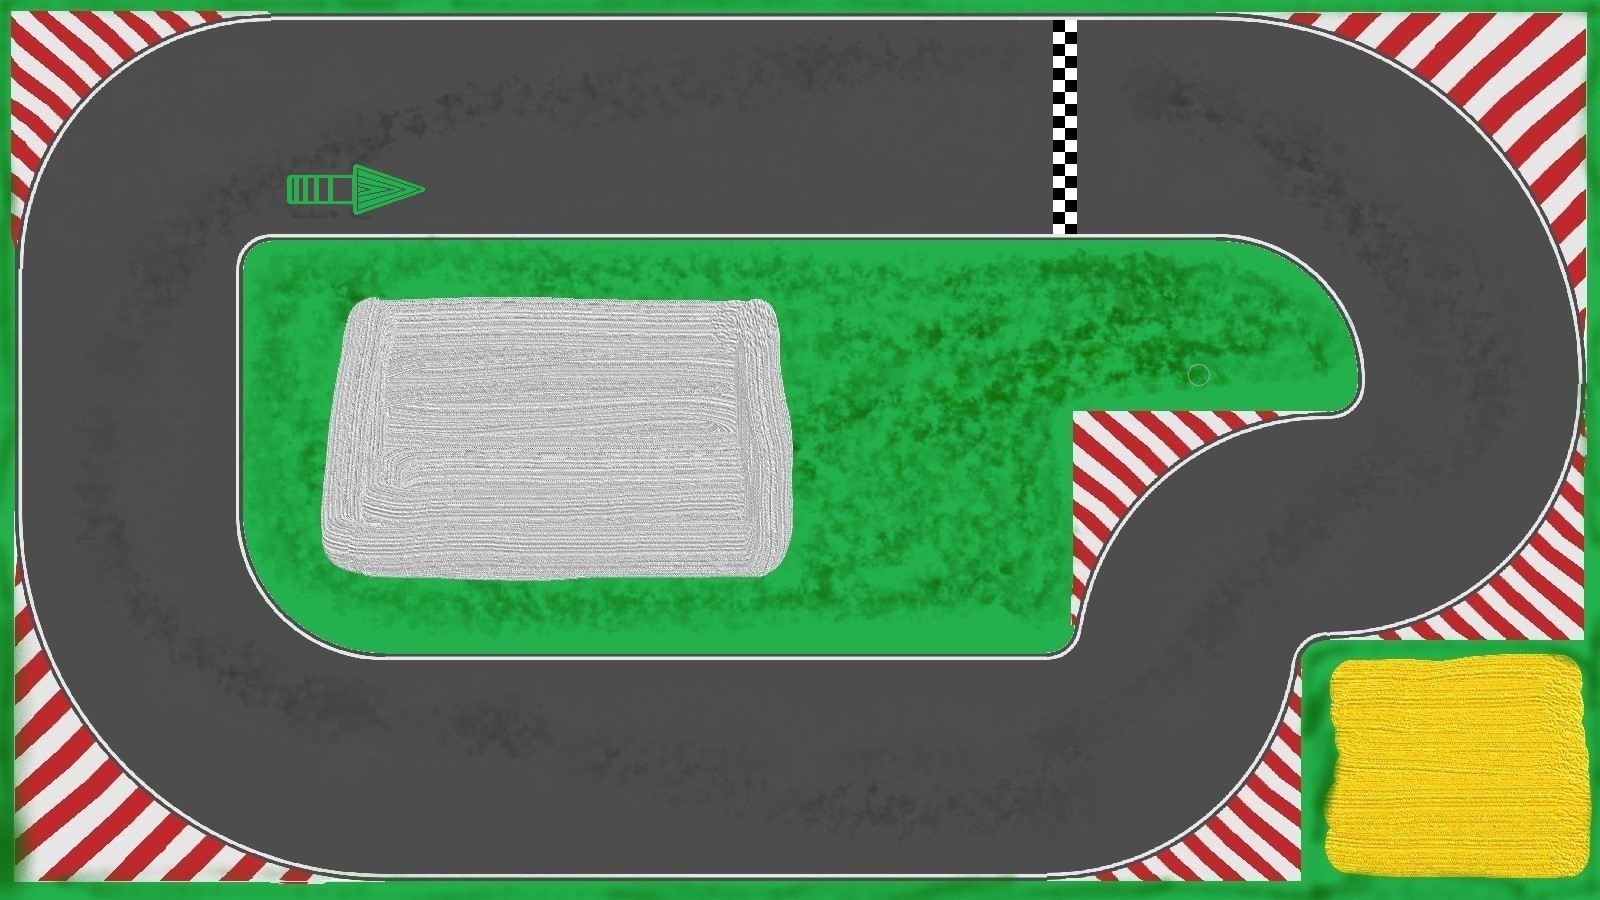
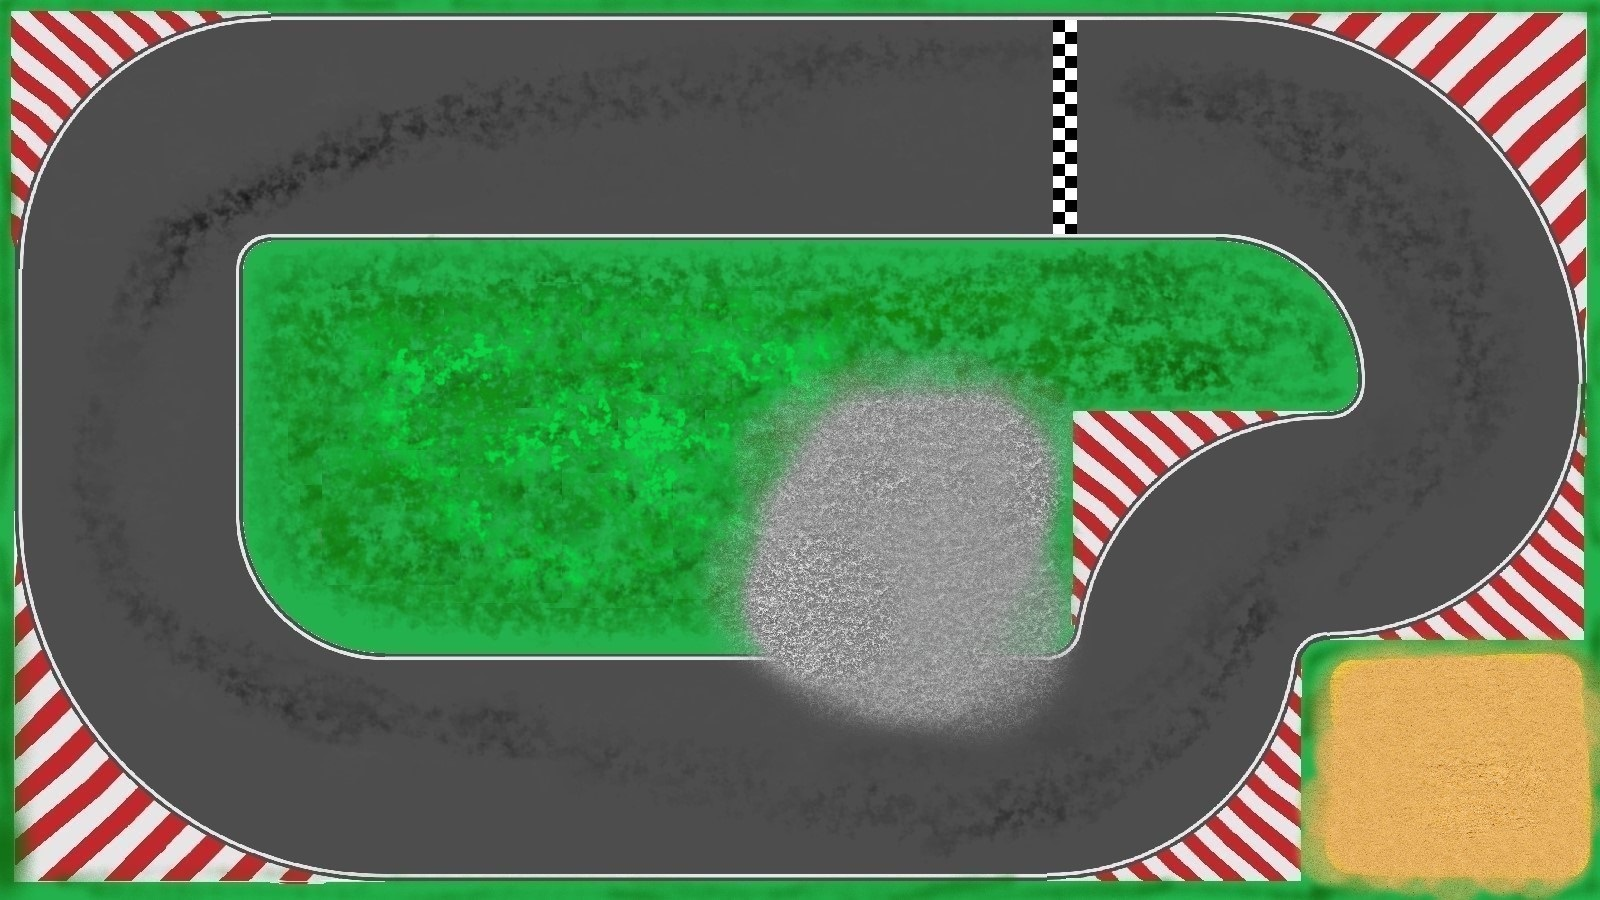
Added new track, made lap manager

diff --git a/car.py b/car.py
@@ -70,11 +70,16 @@ class Car:
             * Key not relavent to the car: Nothing happens
             * Two keys pressed: Both get processed
         """
+        # (Re-)Set MaxFrontSpeed into currentFrontSpeed for this run of the process input
+        # If the car goes over Hitboxes, this currentFrontSpeed will be set lower or higher 
+        self.currentFrontSpeed = self.MAXFRONTSPEED
 
         if aPressedKey[pygame.K_UP] or aPressedKey[pygame.K_w] or aPressedKey[pygame.K_c]:
             self.accelerate()
         elif aPressedKey[pygame.K_DOWN] or aPressedKey[pygame.K_s] or aPressedKey[pygame.K_x]:
             self.decelerate()
+        
+        self.calculateHitboxes()
         self.friction()
 
         theDeceleration = 0
@@ -100,7 +105,7 @@ class Car:
         if aPressedKey[pygame.K_r]:
             self.position = (200,200)
         
-        self.calculateHitboxes()
+        
 
         # Move the car
         self.update(aDelta)
@@ -139,11 +144,13 @@ class Car:
             * Car is getting slowed down over time when not accelerating/decelerating
         """
         deceleration = 3
-        if(self.speed > self.MAXFRONTSPEED * 1.5): deceleration = 15
+        if(self.speed > self.currentFrontSpeed * 1.5): deceleration = 25
+        if(self.speed > self.currentFrontSpeed * 1.75): deceleration = 50
+        if(self.speed > self.currentFrontSpeed * 2): deceleration = 100
         
         if self.speed > 0: self.speed -= deceleration
         else: self.speed += deceleration
-        if abs(self.speed < 5): self.speed = 0
+        if abs(self.speed) < 5: self.speed = 0
 
     def steerRight(self):
         """Steers the car right with a set turningangle every updatetick.
@@ -196,14 +203,16 @@ class Car:
         Tests:
             * The Wheelbase of the car can not be smaller/bigger then the defined MINWHEELBASE/MAXWHEELBASE of the car
             * The calculation is correct
-        """
-
+        """       
         self.wheelBase = abs(self.speed)/2
+        
         if(self.wheelBase < self.MINWHEELBASE):
             self.wheelBase = self.MINWHEELBASE
         if(self.wheelBase > self.MAXWHEELBASE):
             self.wheelBase = self.MAXWHEELBASE
-        
+
+    
+
     def drawSkidMarks(self, aScreen):  
         """ Draws the skidmarks of the car.
         TODO: Skidmarks are to be reworked: 
@@ -222,6 +231,16 @@ class Car:
 
         if(len(self.skidMarkList) > self.MAXSKIDMARKS):
             del self.skidMarkList[:2]
+    
+    def calculateHitboxes(self):
+    
+        for hitbox in self.hitboxList:            
+            if hitbox.checkIfPointIsInside(self.position):
+                if hitbox.slowdownFlag:
+                    self.currentFrontSpeed = hitbox.maxSpeed
+                else:
+                   self.speed += hitbox.maxSpeed
+              
 
     def calcWheelPositions(self, dt):
         """Calucates the wheelPosition of the Car. 
@@ -239,14 +258,25 @@ class Car:
             * Are the wheels correctly positioned?
             * Does the car not exceed the max speed?
         """
-        self.turningWheel = self.position - self.wheelBase/2 * Vector2( cos(self.direction) , sin(self.direction))
-        self.frontWheel = self.position + self.wheelBase/2 * Vector2( cos(self.direction) , sin(self.direction))  
 
-        self.frontWheel += self.speed * dt * Vector2(cos(self.direction) , sin(self.direction))
-        self.turningWheel += self.speed * dt * Vector2(cos(self.direction+self.steerAngle) , sin(self.direction+self.steerAngle))
+        if(self.speed > 0):
+            self.turningWheel = self.position - self.wheelBase/2 * Vector2( cos(self.direction) , sin(self.direction))
+            self.frontWheel = self.position + self.wheelBase/2 * Vector2( cos(self.direction) , sin(self.direction))  
 
-        self.position = (self.turningWheel + self.frontWheel) / 2
-        self.direction = atan2( self.frontWheel.y - self.turningWheel.y , self.frontWheel.x - self.turningWheel.x )
+            self.frontWheel += self.speed * dt * Vector2(cos(self.direction) , sin(self.direction))
+            self.turningWheel += self.speed * dt * Vector2(cos(self.direction+self.steerAngle) , sin(self.direction+self.steerAngle))
+
+            self.position = (self.turningWheel + self.frontWheel) / 2
+            self.direction = atan2( self.frontWheel.y - self.turningWheel.y , self.frontWheel.x - self.turningWheel.x )
+        else: 
+            self.turningWheel = self.position - self.wheelBase/2 * Vector2( cos(self.direction) , sin(self.direction))
+            self.frontWheel = self.position + self.wheelBase/2 * Vector2( cos(self.direction) , sin(self.direction))  
+
+            self.turningWheel += self.speed * dt * Vector2(cos(self.direction) , sin(self.direction))
+            self.frontWheel += self.speed * dt * Vector2(cos(self.direction+self.steerAngle) , sin(self.direction+self.steerAngle))
+
+            self.position = (self.turningWheel + self.frontWheel) / 2
+            self.direction = atan2( self.frontWheel.y - self.turningWheel.y , self.frontWheel.x - self.turningWheel.x )
 
     def update(self, dt):
         """ Updates the cars physics and position
@@ -280,7 +310,6 @@ class Car:
             * Is the circle overflow correctly calculated?
 
         """
-
         theOffsetAngle = degrees(self.direction) + 90 
         if degrees(self.direction) > 90:
             theOffsetAngle -= 360
@@ -299,7 +328,7 @@ class Car:
             * Are the Skidmarks drawn on the correct layer? (Under the car, over the bg?)
         """
         self.updateSkidmarkOffsetVector()
-        if abs(self.steerAngle) > 0.8:
+        if abs(self.steerAngle) > 0.8 and self.speed > 0:
 
             self.skidMarkList.append(SkidMark((self.displayPos1.x + self.skidmarkOffsetVector.x, self.displayPos1.y + self.skidmarkOffsetVector.y),degrees(-self.direction), self.steerAngle, self.speed))
             self.skidMarkList.append(SkidMark((self.displayPos1.x - self.skidmarkOffsetVector.x, self.displayPos1.y - self.skidmarkOffsetVector.y),degrees(-self.direction), self.steerAngle, self.speed))
@@ -307,7 +336,7 @@ class Car:
             self.skidMarkList.append(SkidMark((self.displayPos1.x + self.skidmarkOffsetVector.x, self.displayPos1.y + self.skidmarkOffsetVector.y),degrees(-self.direction), 2, self.speed))
             self.skidMarkList.append(SkidMark((self.displayPos1.x - self.skidmarkOffsetVector.x, self.displayPos1.y - self.skidmarkOffsetVector.y),degrees(-self.direction), 2, self.speed))
              
-    def calculateHitboxes(self):
-        print("")
-        #for eachHitbox in self.hitboxList
-        #    if eachHitbox.
+                  
+
+
+

diff --git a/trackdata.py b/trackdata.py
@@ -20,17 +20,72 @@ class Trackdata:
     def __init__(self):
         """Inits trackdata and creates all the hitboxes for the tracks
         """
-        self.track01 = []
+        self.track01_hitboxes = []
+        self.track01_checkpoints = []
 
-        self.track01.__add__(Hitbox())
+        ### Track 01
+        # Outside, on screen hitbox
+        self.track01_hitboxes.append(Hitbox((0,0),       (1600,15),      50))
+        self.track01_hitboxes.append(Hitbox((0,0),       (15,900),       50))
+        self.track01_hitboxes.append(Hitbox((0,880),     (1600,900),     50))
+        self.track01_hitboxes.append(Hitbox((1580,0),    (1600,900),     50))
 
+        # Grass
+        self.track01_hitboxes.append(Hitbox((256,256),   (1060,560),     150))
+        self.track01_hitboxes.append(Hitbox((1060,256),  (1250,400),     150))
+        self.track01_hitboxes.append(Hitbox((320,560),   (1060,640),     150))
 
+        # Graveltraps
+        self.track01_hitboxes.append(Hitbox((780,400),   (1050,720),      100))
+        self.track01_hitboxes.append(Hitbox((1330,650),  (1590,880),     100))
 
+        ## Checkpoints
+        # right
+        self.track01_checkpoints.append(Hitbox((1350, 360),   (1580,380),      0,    False,       True))
+        # bottom
+        self.track01_checkpoints.append(Hitbox((720, 650),   (740,880),      0,    False,       True))
+        # left
+        self.track01_checkpoints.append(Hitbox((15, 370),   (240,390),      0,    False,       True))
+        # start/finish
+        self.track01_checkpoints.append(Hitbox((1053, 20),   (1077,234),      0,    False,       True))
 
+        ### Track 2
+        self.track02_hitboxes = []
+        self.track02_checkpoints = []
 
+        # Checkpoints
+        
+        # split top 
+        self.track02_checkpoints.append(Hitbox((1305, 229),   (1325,367),      0,    False,       True))
+        # top middle right
+        self.track02_checkpoints.append(Hitbox((1292, 15),   (1312,165),      0,    False,       True))
+        # before 1st cross
+        self.track02_checkpoints.append(Hitbox((987, 280),   (1140,300),      0,    False,       True))
+        # after 1st cross
+        self.track02_checkpoints.append(Hitbox((987, 545),   (1140,565),      0,    False,       True))
+        # before 2nd cross
+        self.track02_checkpoints.append(Hitbox((468, 490),   (620,470),      0,    False,       True))
+        # after 2nd cross
+        self.track02_checkpoints.append(Hitbox((468, 226),   (620,206),      0,    False,       True))
+        # top left
+        self.track02_checkpoints.append(Hitbox((195, 34),   (215,193),      0,    False,       True))
+        # before merge
+        self.track02_checkpoints.append(Hitbox((300, 228),   (320,376),      0,    False,       True))
+        # start/finish, passby
+        self.track02_checkpoints.append(Hitbox((934, 313),   (957,457),      0,    False,       True))
 
+        # split bottom 
+        self.track02_checkpoints.append(Hitbox((1306, 390),   (1326,532),      0,    False,       True))
+        # after right turn
+        self.track02_checkpoints.append(Hitbox((1290, 717),   (1310,880),      0,    False,       True))
+        # after straight
+        self.track02_checkpoints.append(Hitbox((320, 717),   (340,880),      0,    False,       True))
+        # before merge
+        self.track02_checkpoints.append(Hitbox((296, 392),   (316,541),      0,    False,       True))
 
-        self.track02 = []
+        # start/finish, actually now
+        self.track02_checkpoints.append(Hitbox((934, 313),   (957,457),      0,    False,       True))
+        
         
 
     

diff --git a/game.py b/game.py
@@ -19,6 +19,8 @@ pygame.font.init()
 from car import Car
 from skidmark import SkidMark
 from hitbox import Hitbox
+from trackdata import Trackdata
+from lapmanager import LapManager
 
 
 
@@ -28,8 +30,7 @@ class Game:
         
     """
 
-    myfont = pygame.font.SysFont('Comic Sans MS', 30)
-    theCircleColor = (255, 255, 0)
+    myfont = pygame.font.SysFont('Arial', 30, True)
     def __init__(self):
         pygame.init()
         pygame.display.set_caption("Car Drifting Game")
@@ -39,7 +40,6 @@ class Game:
         self.clock = pygame.time.Clock()
         self.ticks = 60
         self.exit = False
-        self.tempHitbox = Hitbox((400,400), (800,800))
         
 
 
@@ -51,16 +51,19 @@ class Game:
                 * Does the game Stop if requested?
                 * Does the game run at the correct fps?
         """
-
+        trackdata = Trackdata()
         current_dir = os.path.dirname(os.path.abspath(__file__))
         image_path = os.path.join(current_dir, "car.png")
         car_image = pygame.image.load(image_path)
         car_image = pygame.transform.scale(car_image, (48,24))
-        track01_image = pygame.image.load("tracks/track_01.jpg")
+        track01_image = pygame.image.load("tracks/track_02.jpg")
         track01_image = pygame.transform.scale(track01_image,(1600,900))
-        car = Car(200, 100, 300, -100, 20, 800)
+        car = Car(200, 100, 401, -100, 20, 800, [])#trackdata.track01_hitboxes)
+        lapManager = LapManager(trackdata.track02_checkpoints)
+
         
         while not self.exit:
+            lapManager.checkCheckpointPassed(car.position)
             dt = self.clock.get_time() / 1000
 
             # Event queue
@@ -72,10 +75,10 @@ class Game:
             pressed = pygame.key.get_pressed()
 
             car.processInputs(pressed, dt)
-            # Camera https://www.youtube.com/watch?v=3zV2ewk-IGU
             # Drawing
             self.screen.fill((100, 100, 100))
             self.screen.blit(track01_image, (0,0))
+            lapManager.drawCheckpointMarks(self.screen)
             rotated = pygame.transform.rotate(car_image, degrees(-car.direction))
             car.drawSkidMarks(self.screen)
             rect = rotated.get_rect()
@@ -92,13 +95,22 @@ class Game:
             #pygame.draw.circle(self.screen, (255,0,255), car.displayPos2, 15, 10)
             #pygame.draw.circle(self.screen, (0,255,255), car.displayPos3, 15, 10)
             
-            self.tempHitbox.drawDebugHitbox(self.screen, car.position)
+            speed = car.speed / 3
+            if 130 < speed < 137: speed = 130
+            textsurfaceVector = self.myfont.render("CarSpeed: " + str(int(speed)), False, (0, 0, 0))
+            self.screen.blit(textsurfaceVector,(190,25))
 
-            textsurfaceVector = self.myfont.render("CarSpeed: " + str(car.speed), False, (0, 0, 0))
-            self.screen.blit(textsurfaceVector,(0,30))
-            
+            textsurfaceVector = self.myfont.render("Last Lap time: " + str(round(lapManager.lastLap, 3)), False, (0, 0, 0))
+            self.screen.blit(textsurfaceVector,(440,25))
 
+            textsurfaceVector = self.myfont.render("Fastest Lap: " + str(round(lapManager.fastestLap, 3)), False, (0, 0, 0))
+            self.screen.blit(textsurfaceVector,(780,25))
 
+            #for hitbox in trackdata.track01_hitboxes:        
+            #    hitbox.drawDebugHitbox(self.screen, car.position)
+
+            for hitbox in trackdata.track02_checkpoints:        
+                hitbox.drawDebugHitbox(self.screen, car.position)
 
             pygame.display.flip()
 

diff --git a/lapmanager.py b/lapmanager.py
@@ -1,0 +1,57 @@
+"""
+
+    author: JONAS GUGEL
+    data: 19.03.2021
+    licence: free
+
+"""
+import pygame as py
+import time
+from pygame import Vector2
+from hitbox import Hitbox
+
+class LapManager:
+    """A Hitbox is a invisible rect, which defines areas. These can be used to change the cars speed.
+    
+    """
+    # Variables
+
+    def __init__(self, aCheckpointList):
+        self.startTime = 0
+        self.checkpointList = aCheckpointList
+        self.checkpointsPassed = len(self.checkpointList)
+        self.currentCheckpoint = self.checkpointList[len(self.checkpointList)-1]
+        self.lastLap = 0
+        self.fastestLap = 0
+        self.laps = 0
+
+    def checkCheckpointPassed(self, carposition: Vector2):
+        if self.currentCheckpoint.checkIfPointIsInside(carposition):
+            self.checkpointsPassed += 1
+            if(self.checkpointsPassed > len(self.checkpointList) - 1):
+                # only first time
+                if(self.startTime != 0):
+                    self.lastLap = time.time() - self.startTime
+                    if self.lastLap < self.fastestLap or self.fastestLap == 0: self.fastestLap = self.lastLap
+                self.startTime = time.time()
+                self.checkpointsPassed = 0
+
+            self.currentCheckpoint = self.checkpointList[self.checkpointsPassed]
+                # lap finished
+    def drawCheckpointMarks(self, aScreen):
+        for checkpoint in self.checkpointList:
+            if checkpoint == self.currentCheckpoint:
+                py.draw.circle(aScreen, (0,255,0), checkpoint.position1, 15, 10)
+                
+            else: 
+                py.draw.circle(aScreen, (255,255,0), checkpoint.position1, 15, 10)
+            py.draw.circle(aScreen, (0,0,0), checkpoint.position1, 5, 2)
+            py.draw.circle(aScreen, (0,0,0), checkpoint.position1, 15, 2)
+            
+
+    
+    
+
+
+
+        

diff --git a/hitbox.py b/hitbox.py
@@ -14,11 +14,13 @@ class Hitbox:
     """
     # Variables
 
-    def __init__(self, aPositionTuple1: Vector2, aPositionTuple2: Vector2, aMaxspeed = 100):
+    def __init__(self, aPositionTuple1: Vector2, aPositionTuple2: Vector2, aMaxspeed = 100, aSlowdownFlag = True, aCheckpointFlag = False):
         self.position1 = Vector2(aPositionTuple1)
         self.position2 = Vector2(aPositionTuple2)
         self.dimensions = Vector2(abs(self.position1.x - self.position2.x),abs(self.position1.y - self.position2.y))
         self.maxSpeed = aMaxspeed
+        self.slowdownFlag = aSlowdownFlag
+        self.checkpointFlag = aCheckpointFlag
 
     def checkIfPointIsInside(self, aPosition: Vector2): 
         """Returns a boolean if the given point is inside the Hitbox
@@ -48,8 +50,8 @@ class Hitbox:
             * Is the position correct?
         """
         if self.checkIfPointIsInside(carposition):
-            py.draw.rect(aScreen, (255, 0, 0), (self.position1, self.dimensions),1)
+            py.draw.rect(aScreen, (255, 0, 0), (self.position1, self.dimensions),5)
         else:
-            py.draw.rect(aScreen, (0, 255,0), (self.position1, self.dimensions),1)
+            py.draw.rect(aScreen, (0, 255,0), (self.position1, self.dimensions),5)
 
         
